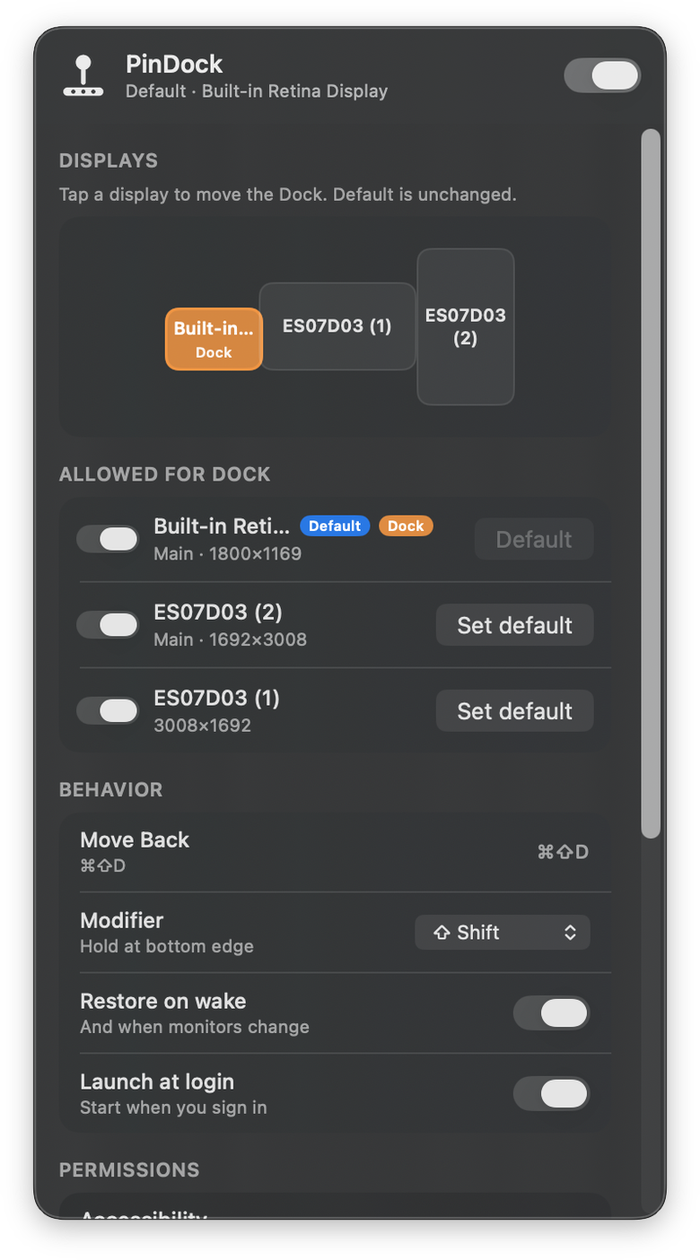
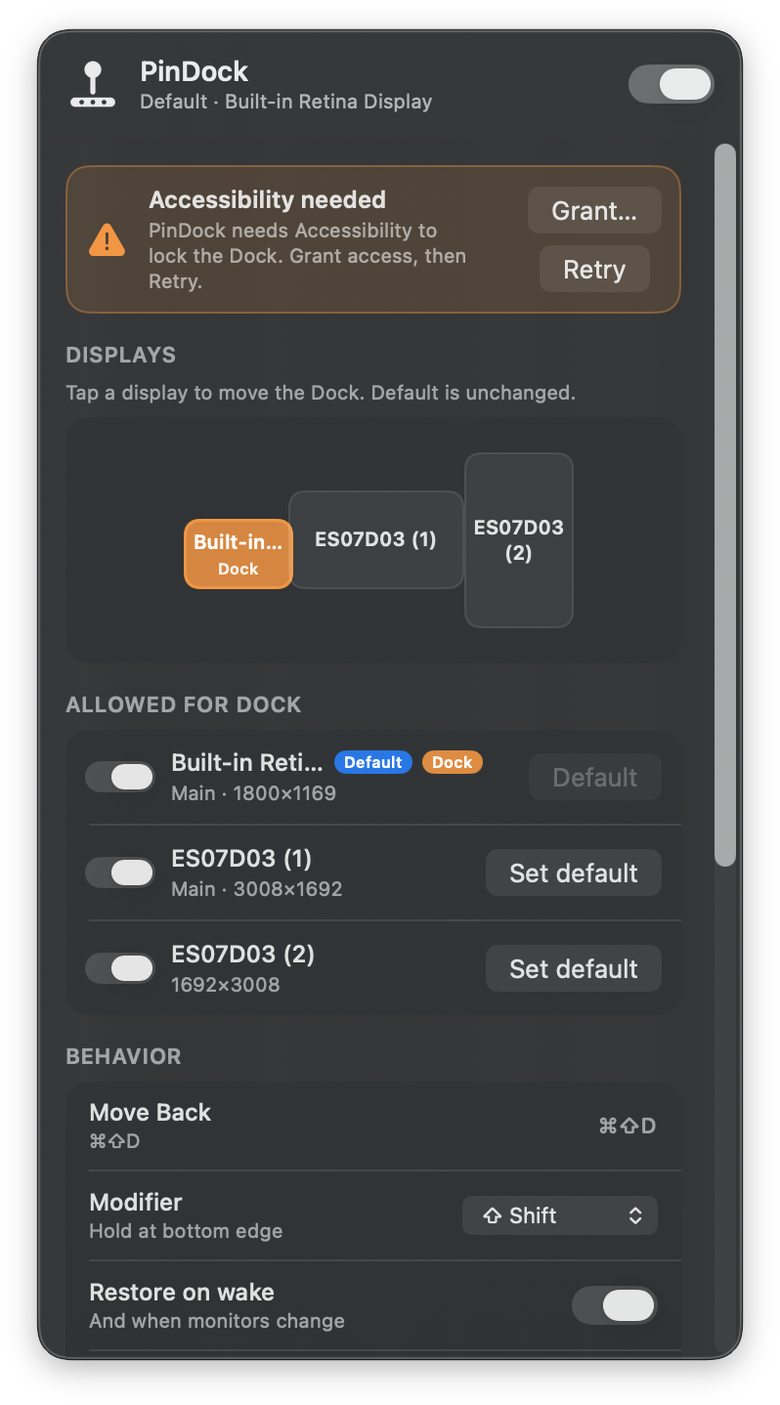
Match Accessibility Grant/Retry button size; refresh screenshots
Use regular control size for banner Grant/Retry like Set default.
Recapture README screenshots (clean panel + accessibility banner).

diff --git a/Sources/PinDock/SettingsView.swift b/Sources/PinDock/SettingsView.swift
@@ -18,7 +18,7 @@ struct SettingsView: View {
                 VStack(alignment: .leading, spacing: 14) {
                     if state.updateAvailable { updateBanner }
                     if state.dockIsAway { moveBackBanner }
-                    if !state.isTrusted || (state.isEnabled && !state.isRunning) {
+                    if showsAccessibilityBanner {
                         accessibilityBanner
                     }
                     defaultSection
@@ -42,6 +42,12 @@ struct SettingsView: View {
                 state.checkForUpdates(force: false)
             }
         }
+    }
+
+    /// Maintainer: `PinDock --ui-preview-a11y` forces the Accessibility banner for screenshots.
+    private var showsAccessibilityBanner: Bool {
+        if CommandLine.arguments.contains("--ui-preview-a11y") { return true }
+        return !state.isTrusted || (state.isEnabled && !state.isRunning)
     }
 
     // MARK: - Glass
@@ -208,12 +214,14 @@ struct SettingsView: View {
                     .fixedSize(horizontal: false, vertical: true)
             }
             Spacer(minLength: 4)
-            VStack(spacing: 4) {
+            VStack(spacing: 6) {
                 Button("Grant…") { state.openAccessibility() }
                     .buttonStyle(.borderedProminent)
-                    .controlSize(.mini)
+                    .controlSize(.regular)
+                    .font(.system(size: 12, weight: .medium))
                 Button("Retry") { state.retryEngine() }
-                    .controlSize(.mini)
+                    .controlSize(.regular)
+                    .font(.system(size: 12, weight: .medium))
             }
         }
         .padding(10)
